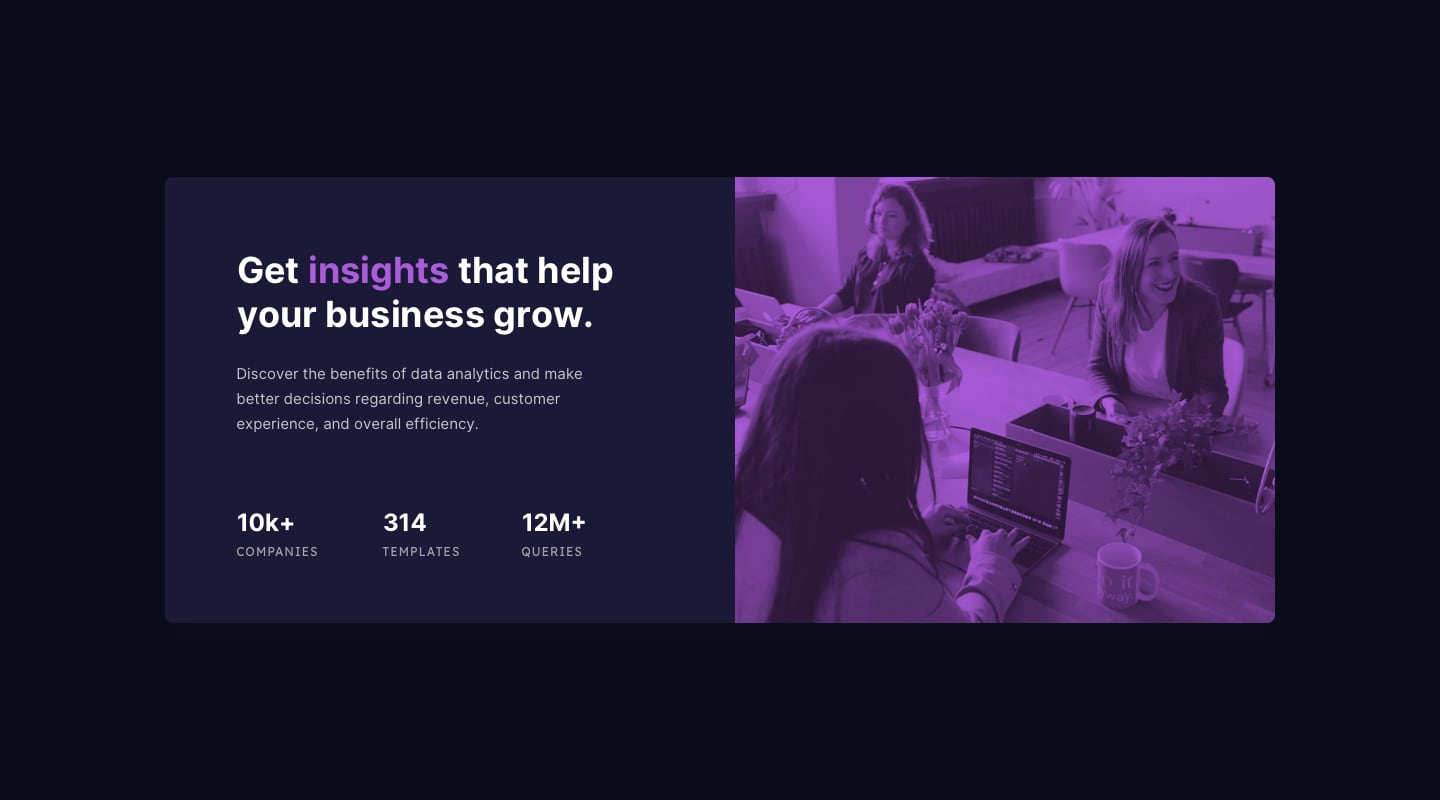
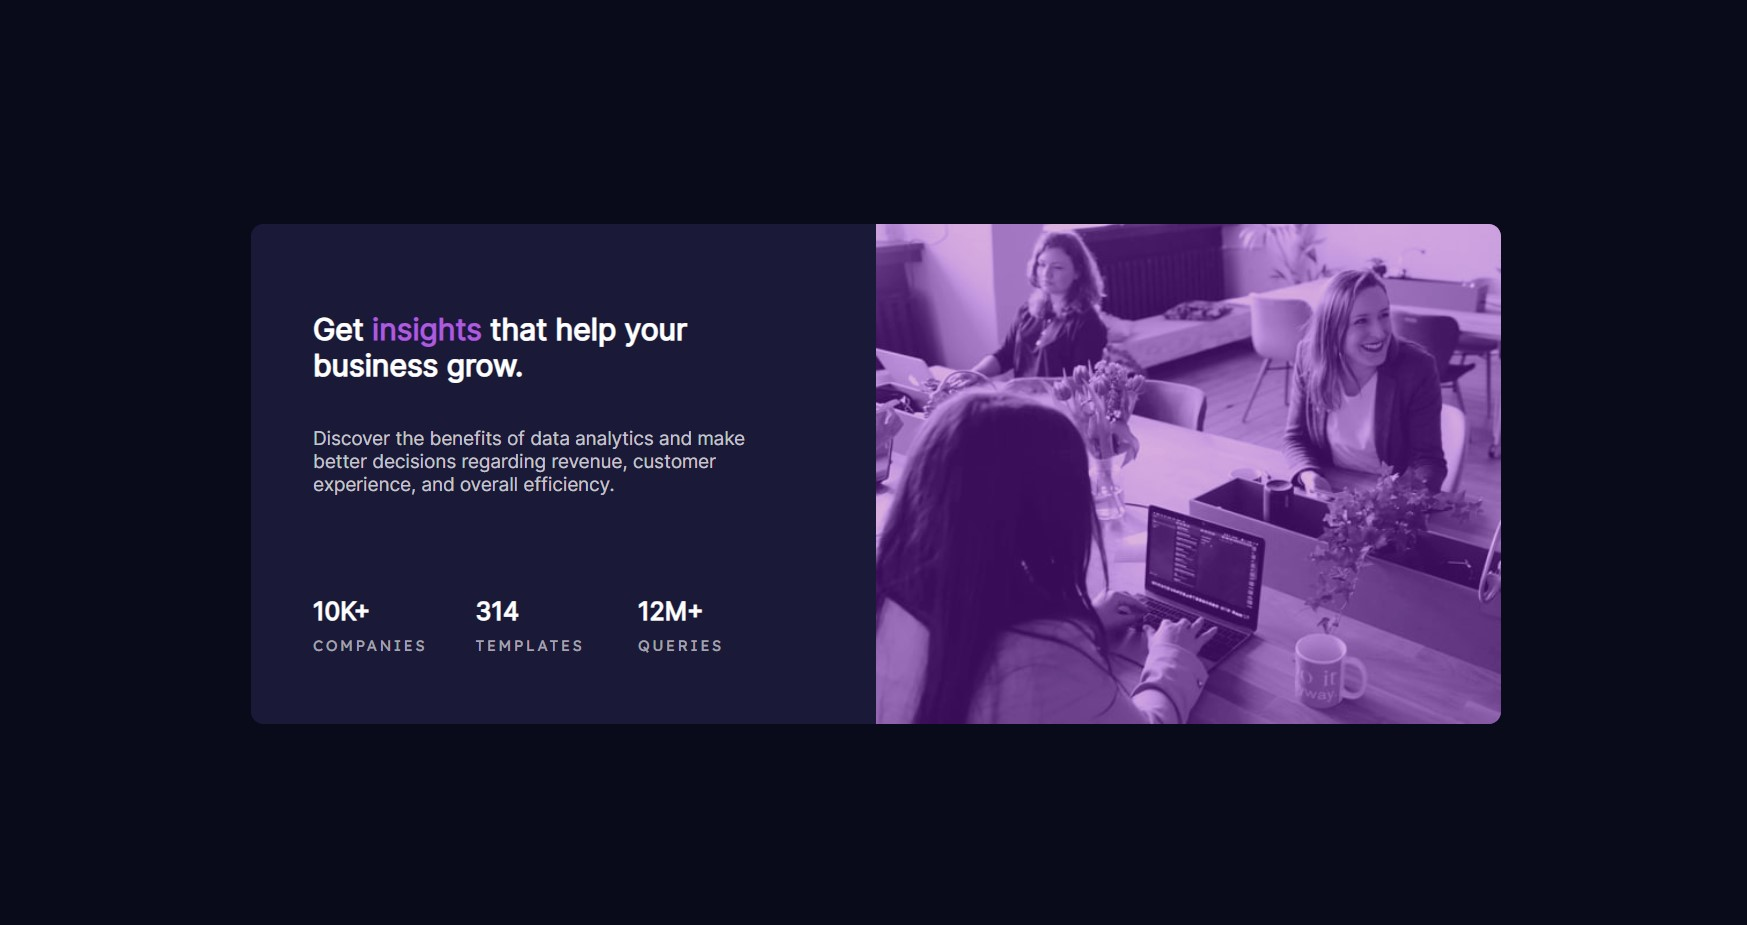
write README

Changed region(s): [[0.0938, 0.2188, 0.9062, 0.7812]]

diff --git a/styles.css b/styles.css
@@ -1,0 +1,124 @@
+body {
+    background-color: hsl(233, 47%, 7%);
+    height: 100vh;
+    display: flex;
+    justify-content: center;
+    align-items: center;
+}
+
+.container {
+    display: flex;
+    flex-direction: row-reverse;
+    background-color: hsl(244, 38%, 16%);
+    width: 1000px;
+    height: 400px;
+    border-radius: 10px;
+}
+
+.info {
+    display: flex;
+    flex-direction: column;
+    width: 500px;
+    padding: 50px;
+}
+
+img {
+    width: 500px;
+    height: 400px;
+    border-radius: 0px 10px 10px 0px;
+    filter: opacity(0.6) drop-shadow(0 0 hsl(277, 64%, 61%)) contrast(110%) saturate(210%);
+    margin-left: 10px;
+}
+
+.grid-container {
+    display: grid;
+    grid-template-columns: 1fr 1fr 1fr;
+}
+
+.title {
+    color: hsl(0, 0%, 100%);
+    font-family: 'Inter', sans-serif;
+    font-weight: 700;
+}
+
+.item {
+    padding: 0px;
+    margin: 0px;
+    color: hsla(0, 0%, 100%, 0.6);
+    font-size: 15px;
+    font-family: 'Lexend Deca', sans-serif;
+    text-transform: uppercase;
+    letter-spacing: 2px;
+    margin-top: 8px;
+    font-size: 12px;
+}
+
+.number {
+    padding: 0px;
+    margin: 0px;
+    color: hsl(0, 0%, 100%);
+    font-family: 'Inter', sans-serif;
+    font-weight: 700;
+    text-transform: uppercase;
+    font-size: 20px;
+}
+
+.detail {
+    margin-bottom: 80px;
+    font-size: 15px;
+    color: hsla(0, 0%, 100%, 0.75);
+    font-family: 'Inter', sans-serif;
+}
+
+#insights {
+    color: hsl(277, 64%, 61%);
+}
+
+@media (max-width: 600px) {
+    .container {
+        flex-direction: column;
+        width: 300px;
+        height: 98vh;
+        text-align: center;
+    }
+    
+    .info {
+        width: 250px;
+        padding: 0px;
+        margin-left: 25px;
+        margin-top: 10px;
+    }
+
+    img {
+        width: 300px;
+        height: 210px;
+        border-radius: 10px 10px 0px 0px;
+        margin: 0px;
+    }
+
+    .grid-container {
+        grid-template-columns: 1fr;
+    }
+
+    .item {
+        margin-bottom: 25px;
+    }
+
+    .detail {
+        margin-bottom: 40px;
+    }
+}
+
+@media (min-width: 600px) {
+    .first {
+        order: 1;
+    }
+
+    .second {
+        order: 2;
+    }
+
+    .third {
+        order: 3;
+    }
+}

diff --git a/README.md b/README.md
@@ -7,16 +7,11 @@ This is a solution to the [Stats preview card component challenge on Frontend Me
 - [Overview](#overview)
   - [The challenge](#the-challenge)
   - [Screenshot](#screenshot)
-  - [Links](#links)
 - [My process](#my-process)
   - [Built with](#built-with)
   - [What I learned](#what-i-learned)
-  - [Continued development](#continued-development)
   - [Useful resources](#useful-resources)
 - [Author](#author)
-- [Acknowledgments](#acknowledgments)
-
-**Note: Delete this note and update the table of contents based on what sections you keep.**
 
 ## Overview
 
@@ -28,85 +23,28 @@ Users should be able to:
 
 ### Screenshot
 
-![](./screenshot.jpg)
-
-Add a screenshot of your solution. The easiest way to do this is to use Firefox to view your project, right-click the page and select "Take a Screenshot". You can choose either a full-height screenshot or a cropped one based on how long the page is. If it's very long, it might be best to crop it.
-
-Alternatively, you can use a tool like [FireShot](https://getfireshot.com/) to take the screenshot. FireShot has a free option, so you don't need to purchase it. 
-
-Then crop/optimize/edit your image however you like, add it to your project, and update the file path in the image above.
-
-**Note: Delete this note and the paragraphs above when you add your screenshot. If you prefer not to add a screenshot, feel free to remove this entire section.**
-
-### Links
-
-- Solution URL: [Add solution URL here](https://your-solution-url.com)
-- Live Site URL: [Add live site URL here](https://your-live-site-url.com)
+![](design\desktop-design.jpg)
+![](design\mobile-design.jpg)
 
 ## My process
 
 ### Built with
 
-- Semantic HTML5 markup
+- HTML3
 - CSS custom properties
 - Flexbox
 - CSS Grid
-- Mobile-first workflow
-- [React](https://reactjs.org/) - JS library
-- [Next.js](https://nextjs.org/) - React framework
-- [Styled Components](https://styled-components.com/) - For styles
-
-**Note: These are just examples. Delete this note and replace the list above with your own choices**
+- MediaQuery
 
 ### What I learned
 
-filter property -> https://developer.mozilla.org/en-US/docs/Web/CSS/filter
-
-Use this section to recap over some of your major learnings while working through this project. Writing these out and providing code samples of areas you want to highlight is a great way to reinforce your own knowledge.
-
-To see how you can add code snippets, see below:
-
-```html
-<h1>Some HTML code I'm proud of</h1>
-```
-```css
-.proud-of-this-css {
-  color: papayawhip;
-}
-```
-```js
-const proudOfThisFunc = () => {
-  console.log('🎉')
-}
-```
-
-If you want more help with writing markdown, we'd recommend checking out [The Markdown Guide](https://www.markdownguide.org/) to learn more.
-
-**Note: Delete this note and the content within this section and replace with your own learnings.**
-
-### Continued development
-
-Use this section to outline areas that you want to continue focusing on in future projects. These could be concepts you're still not completely comfortable with or techniques you found useful that you want to refine and perfect.
-
-**Note: Delete this note and the content within this section and replace with your own plans for continued development.**
+I learned about filter property in css and how we can use it to edit image and add color to it. 
 
 ### Useful resources
 
-- [Example resource 1](https://www.example.com) - This helped me for XYZ reason. I really liked this pattern and will use it going forward.
-- [Example resource 2](https://www.example.com) - This is an amazing article which helped me finally understand XYZ. I'd recommend it to anyone still learning this concept.
-
-**Note: Delete this note and replace the list above with resources that helped you during the challenge. These could come in handy for anyone viewing your solution or for yourself when you look back on this project in the future.**
+- [filter](https://developer.mozilla.org/en-US/docs/Web/CSS/filter) - This helped me for filter property.
 
 ## Author
 
-- Website - [Add your name here](https://www.your-site.com)
-- Frontend Mentor - [@yourusername](https://www.frontendmentor.io/profile/yourusername)
-- Twitter - [@yourusername](https://www.twitter.com/yourusername)
-
-**Note: Delete this note and add/remove/edit lines above based on what links you'd like to share.**
-
-## Acknowledgments
-
-This is where you can give a hat tip to anyone who helped you out on this project. Perhaps you worked in a team or got some inspiration from someone else's solution. This is the perfect place to give them some credit.
-
-**Note: Delete this note and edit this section's content as necessary. If you completed this challenge by yourself, feel free to delete this section entirely.**
+- Github - [Razie](https://github.com/raziie)
+- Frontend Mentor - [@raziie](https://www.frontendmentor.io/profile/raziie)
